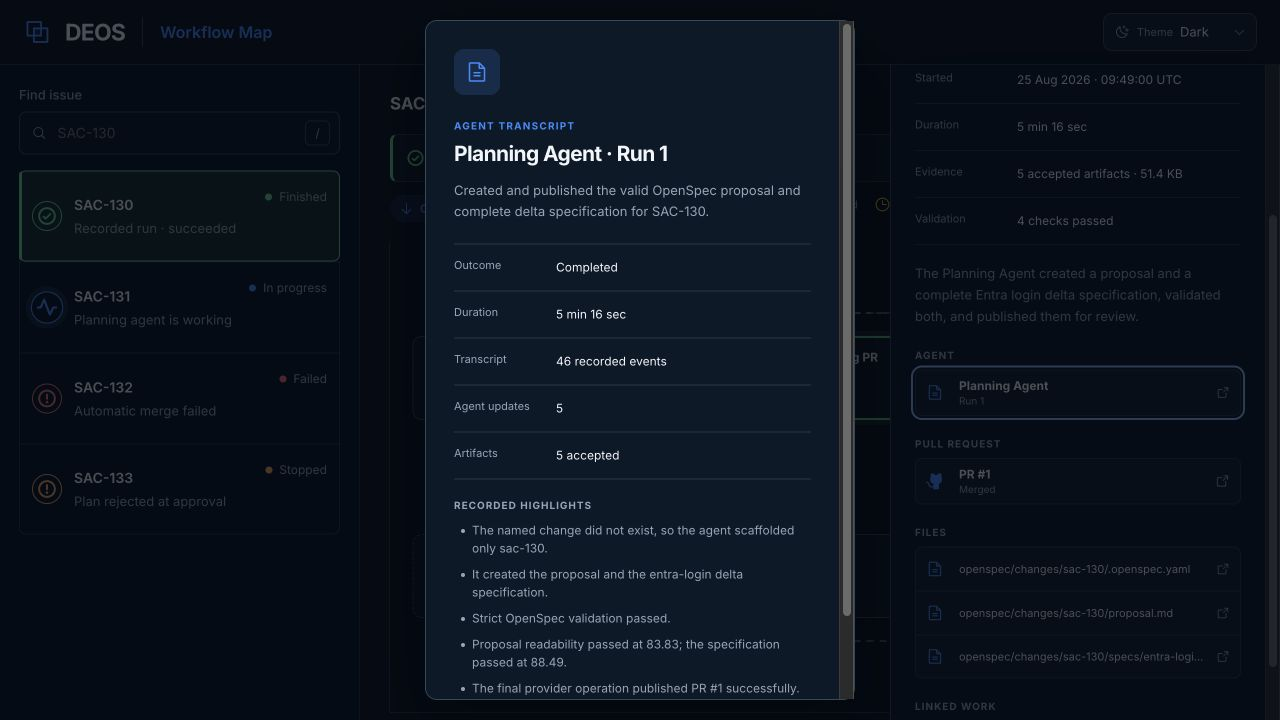
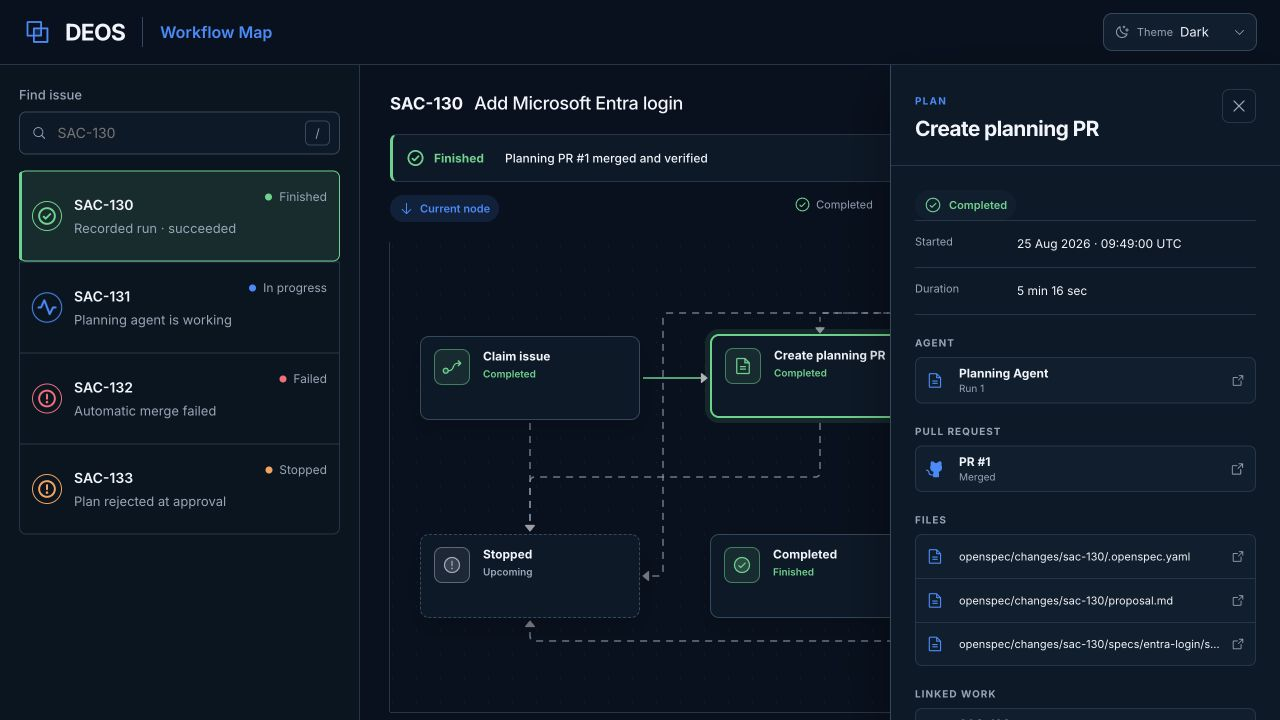
refactor(portal): simplify workflow details

diff --git a/portal/src/styles.css b/portal/src/styles.css
@@ -26,7 +26,7 @@ button { color:inherit; }
 .status-strip { min-height:45px;display:flex;justify-content:space-between;align-items:center;padding:8px 14px;margin-bottom:16px;border:1px solid var(--line);border-radius:10px;background:var(--panel);color:var(--muted);font-size:12px}.status-strip div{display:flex;align-items:center;gap:10px}.status-pill{padding:5px 9px;border-radius:999px;background:#e9f2ff;color:#1557a8;font-weight:700}.status-pill.awaiting_human,.status-pill.awaiting_capability{background:#fff1d8;color:#875209}.status-pill.succeeded{background:#ddf5e9;color:#166d46}.status-pill.failed,.status-pill.blocked,.status-pill.denied,.status-pill.canceled{background:#ffebe8;color:#9a3528}
 .workflow-panel,.detail-panel,.history-panel { border:1px solid var(--line);border-radius:14px;background:var(--panel);box-shadow:0 8px 24px rgba(20,45,68,.05); }.workflow-panel{padding:22px 24px;margin-bottom:18px}.section-heading{display:flex;align-items:flex-end;justify-content:space-between;gap:14px;margin-bottom:20px}.section-heading h2{font:700 18px ui-sans-serif,system-ui,sans-serif;margin:3px 0 0}.section-heading>span{font-size:12px;color:var(--muted)}
 .workflow-map { overflow-x:auto;padding:4px 2px 8px; }.stage-row{display:grid;grid-template-columns:repeat(5,minmax(154px,1fr));gap:24px;min-width:890px}.stage-row.reverse{direction:rtl}.stage-row.reverse>*{direction:ltr}.stage-slot{position:relative}.connector{position:absolute;right:-21px;top:35px;color:#8ea5b8;width:17px}.stage-card{position:relative;width:100%;min-height:76px;display:flex;align-items:center;gap:10px;padding:13px;text-align:left;border:1px solid var(--line);border-radius:11px;background:var(--soft);cursor:pointer}.stage-card:hover{border-color:#98b8d5}.stage-card.complete{background:var(--panel)}.stage-card.active{color:#fff;border-color:var(--blue);background:linear-gradient(135deg,#1669de,#24589e);box-shadow:0 7px 18px rgba(23,105,224,.22)}.stage-icon{width:27px;height:27px;display:grid;place-items:center;flex:0 0 auto;border-radius:50%;background:rgba(23,105,224,.1);color:var(--blue)}.active .stage-icon{background:rgba(255,255,255,.16);color:#fff}.stage-icon svg{width:15px}.stage-copy{display:flex;flex-direction:column;min-width:0}.stage-copy strong{font-size:13px;line-height:1.25}.stage-copy small{color:var(--muted);font-size:11px;margin-top:4px}.active .stage-copy small{color:#d8e7fa}.cycle{position:absolute;right:8px;top:8px;display:flex;align-items:center;gap:2px;font-size:10px;color:var(--amber)}.cycle svg{width:12px}.turn{min-width:890px;height:34px;display:flex;align-items:center;justify-content:flex-end;gap:7px;padding-right:72px;color:var(--muted);font-size:11px}.turn svg{width:18px}
-.lower-grid{display:grid;grid-template-columns:minmax(0,1.45fr) minmax(300px,.75fr);gap:18px}.detail-panel,.history-panel{padding:21px 22px;min-height:300px}.detail-content dl{display:grid;grid-template-columns:repeat(3,1fr);gap:10px;margin:0 0 20px}.detail-content dl div{padding:11px 12px;border-radius:9px;background:var(--soft)}dt{font-size:10px;text-transform:uppercase;letter-spacing:.09em;color:var(--muted);font-weight:700}dd{margin:5px 0 0;font-size:13px;font-weight:600}.evidence-grid{display:grid;grid-template-columns:repeat(3,1fr);gap:10px}.evidence-grid>div{border:1px solid var(--line);border-radius:10px;padding:13px}.evidence-grid h3{font-size:11px;text-transform:uppercase;letter-spacing:.06em;margin:0 0 10px;color:var(--muted)}.evidence-grid p,.evidence-grid a{font-size:12px;margin:5px 0;color:var(--muted)}.evidence-grid a{display:flex;align-items:center;gap:5px;color:var(--blue);text-decoration:none}.evidence-grid svg{width:15px}.attempt-row+.attempt-row{margin-top:10px;padding-top:10px;border-top:1px solid var(--line)}.attempt-row p{margin:0 0 7px}.attempt-row button{border:0;background:transparent;color:var(--blue);padding:0;font-size:12px;font-weight:700;cursor:pointer}.attempt-row span{font-size:11px;color:var(--muted)}
+.lower-grid{display:grid;grid-template-columns:minmax(0,1.45fr) minmax(300px,.75fr);gap:18px}.detail-panel,.history-panel{padding:21px 22px;min-height:300px}.detail-content dl{display:grid;grid-template-columns:repeat(2,1fr);gap:10px;margin:0 0 20px}.detail-content dl div{padding:11px 12px;border-radius:9px;background:var(--soft)}dt{font-size:10px;text-transform:uppercase;letter-spacing:.09em;color:var(--muted);font-weight:700}dd{margin:5px 0 0;font-size:13px;font-weight:600}.evidence-grid{display:grid;grid-template-columns:repeat(2,1fr);gap:10px}.evidence-grid>div{border:1px solid var(--line);border-radius:10px;padding:13px}.evidence-grid h3{font-size:11px;text-transform:uppercase;letter-spacing:.06em;margin:0 0 10px;color:var(--muted)}.evidence-grid a{font-size:12px;margin:5px 0;display:flex;align-items:center;gap:5px;color:var(--blue);text-decoration:none}.evidence-grid svg{width:15px}.attempt-row+.attempt-row{margin-top:10px;padding-top:10px;border-top:1px solid var(--line)}.attempt-row button{border:0;background:transparent;color:var(--blue);padding:0;font-size:12px;font-weight:700;cursor:pointer}
 .history-list{list-style:none;padding:0;margin:0;max-height:360px;overflow:auto}.history-list li+li{border-top:1px solid var(--line)}.history-list button{width:100%;display:grid;grid-template-columns:30px 1fr auto;gap:9px;align-items:center;padding:11px 7px;border:0;background:transparent;text-align:left;cursor:pointer}.history-list button:hover,.history-list button.selected{background:var(--soft)}.history-number{width:24px;height:24px;display:grid;place-items:center;border-radius:50%;background:var(--soft);font-size:11px;color:var(--muted)}.history-list strong{display:block;font-size:12px;text-transform:capitalize}.history-list small{display:block;margin-top:3px;color:var(--muted);font-size:10px}.history-state{font-size:10px;color:var(--muted);text-transform:capitalize}
 .empty-state{min-height:65vh;display:flex;flex-direction:column;align-items:center;justify-content:center;text-align:center;color:var(--muted)}.empty-state>svg{width:34px;height:34px;color:var(--blue)}.empty-state h1{font:700 23px ui-sans-serif,system-ui,sans-serif;color:inherit;margin:14px 0 5px}.empty-state p{max-width:430px;line-height:1.5}.spin,.stage-card.active .stage-icon svg{animation:spin 2s linear infinite}.stage-card.active{animation:breathe 2.4s ease-in-out infinite}
 .route-action{margin-top:10px;border:0;border-radius:8px;background:var(--blue);color:#fff;padding:10px 14px;font-weight:700;cursor:pointer}

diff --git a/portal/src/main.tsx b/portal/src/main.tsx
@@ -109,6 +109,17 @@ const formatTime = (value: string | null): string => value === null
   ? "—"
   : new Intl.DateTimeFormat(undefined, { dateStyle: "medium", timeStyle: "short" }).format(new Date(value));
 
+const formatDuration = (startedAt: string, endedAt: string | null): string => {
+  if (endedAt === null) return "In progress";
+  const milliseconds = new Date(endedAt).valueOf() - new Date(startedAt).valueOf();
+  if (!Number.isFinite(milliseconds) || milliseconds < 0) return "—";
+  const seconds = Math.round(milliseconds / 1_000);
+  if (seconds < 60) return `${seconds} sec`;
+  const minutes = Math.floor(seconds / 60);
+  const remainingSeconds = seconds % 60;
+  return remainingSeconds === 0 ? `${minutes} min` : `${minutes} min ${remainingSeconds} sec`;
+};
+
 const human = (value: string): string => value.replaceAll("_", " ");
 
 function ThemeControl({ theme, setTheme }: { theme: Theme; setTheme: (theme: Theme) => void }) {
@@ -329,6 +340,7 @@ function App() {
 
   const projection = poll.applied;
   const detail = useMemo(() => projection?.history.find((visit) => visit.sequence === selectedVisit) ?? projection?.history.at(-1) ?? null, [projection, selectedVisit]);
+  const transcriptAttempts = detail?.attempts.filter((attempt) => attempt.transcriptAvailable) ?? [];
   const firstRow = projection?.stages.slice(0, 4) ?? [];
   const secondRow = [...(projection?.stages.slice(4) ?? [])].reverse();
 
@@ -371,8 +383,11 @@ function App() {
           <section className="detail-panel">
             <div className="section-heading"><div><span className="eyebrow">Visit detail</span><h2>{detail?.label ?? "No visit selected"}</h2></div>{detail && <span>Visit {detail.sequence}{detail.cycle > 1 ? ` · cycle ${detail.cycle}` : ""}</span>}</div>
             {detail && <div className="detail-content">
-              <dl><div><dt>State</dt><dd>{human(detail.state)}</dd></div><div><dt>Entered</dt><dd>{formatTime(detail.enteredAt)}</dd></div><div><dt>Finished</dt><dd>{formatTime(detail.leftAt)}</dd></div></dl>
-              <div className="evidence-grid"><div><h3>Agent attempts</h3>{detail.attempts.length ? detail.attempts.map((attempt) => <div className="attempt-row" key={attempt.id}><p>{human(attempt.state)}{attempt.outcome ? ` · ${human(attempt.outcome)}` : ""}</p>{attempt.transcriptAvailable ? <button type="button" onClick={() => setTranscriptAttempt(attempt.id)}>View transcript</button> : <span>Transcript unavailable</span>}</div>) : <p>Unavailable for this visit</p>}</div><div><h3>Wait state</h3>{detail.waits.length ? detail.waits.map((wait, index) => <p key={index}>{human(wait.state)} · {formatTime(wait.startedAt)}</p>) : <p>No durable wait</p>}</div><div><h3>Governed work</h3>{detail.links.length ? detail.links.map((link) => <a key={link.url} href={link.url} target="_blank" rel="noreferrer"><GitPullRequest />{link.label}</a>) : <p>Unavailable for this visit</p>}</div></div>
+              <dl><div><dt>Started</dt><dd>{formatTime(detail.enteredAt)}</dd></div><div><dt>Duration</dt><dd>{formatDuration(detail.enteredAt, detail.leftAt)}</dd></div></dl>
+              {(transcriptAttempts.length > 0 || detail.links.length > 0) && <div className="evidence-grid">
+                {transcriptAttempts.length > 0 && <div><h3>Transcript</h3>{transcriptAttempts.map((attempt) => <div className="attempt-row" key={attempt.id}><button type="button" onClick={() => setTranscriptAttempt(attempt.id)}>View transcript</button></div>)}</div>}
+                {detail.links.length > 0 && <div><h3>Links</h3>{detail.links.map((link) => <a key={link.url} href={link.url} target="_blank" rel="noreferrer"><GitPullRequest />{link.label}</a>)}</div>}
+              </div>}
             </div>}
           </section>
           <section className="history-panel">

diff --git a/prototypes/sac-123-workflow-view/src/App.jsx b/prototypes/sac-123-workflow-view/src/App.jsx
@@ -772,6 +772,7 @@ function StepInspector({ selection, issue, onClose, onTranscript }) {
   const usesPullRequest = ["planning", "review", "merge", "complete"].includes(step?.id);
   const pullRequest = issue.pullRequest;
   const prStatus = pullRequest?.status ?? (issue.state === "active" ? "Draft" : issue.state === "stopped" ? "Closed" : ["waiting", "failed"].includes(issue.state) ? "Open" : "Unknown");
+  const timingFacts = step?.facts?.filter((fact) => ["started", "duration"].includes(fact.label.toLowerCase())) ?? [];
   return (
     <aside className="step-inspector" aria-label="Workflow detail">
       <div className="inspector-header">
@@ -786,17 +787,9 @@ function StepInspector({ selection, issue, onClose, onTranscript }) {
             {["failed", "rejected", "stopped"].includes(status) ? <WarningCircle size={18} /> : status === "skipped" ? <X size={18} /> : isCurrent && issue.state === "waiting" ? <Clock size={18} /> : status === "completed" ? <CheckCircle size={18} /> : <FlowArrow size={18} />}
             {labelForStageStatus(status, issue, isCurrent)}
           </div>
-          <dl className="detail-list">
-            <div><dt>Result</dt><dd>{step?.result}</dd></div>
-            {step?.facts?.map((fact) => <div key={`${fact.label}-${fact.value}`}><dt>{fact.label}</dt><dd>{fact.value}</dd></div>)}
-          </dl>
-          {step?.summary && <p className="detail-summary">{step.summary}</p>}
-          {step?.cycleBased && step?.cycleCount > 0 && (
-            <section className="inspector-cycles" aria-label="Cycle count">
-              <strong>{step.cycleCount}</strong>
-              <span>{step.cycleCount === 1 ? "Cycle" : "Cycles"}</span>
-            </section>
-          )}
+          {timingFacts.length > 0 && <dl className="detail-list">
+            {timingFacts.map((fact) => <div key={`${fact.label}-${fact.value}`}><dt>{fact.label}</dt><dd>{fact.value}</dd></div>)}
+          </dl>}
           {step?.agentRuns?.length > 0 && <section className="inspector-agents">
             <h3>Agent</h3>
             {step.agentRuns.map((run) => (

diff --git a/prototypes/sac-123-workflow-view/src/sac-130-recorded-run.js b/prototypes/sac-123-workflow-view/src/sac-130-recorded-run.js
@@ -53,9 +53,9 @@ export const sac130RecordedRun = Object.freeze({
       result: "Plan approved in Linear",
       summary: "SAC-130 entered Human Review. A person approved it by moving the issue to Merging 46 seconds later.",
       facts: [
-        { label: "Entered", value: "25 Aug 2026 · 09:54:18 UTC" },
+        { label: "Started", value: "25 Aug 2026 · 09:54:18 UTC" },
         { label: "Decision", value: "Human Review → Merging" },
-        { label: "Wait", value: "46 sec" },
+        { label: "Duration", value: "46 sec" },
       ],
     },
     merge: {

diff --git a/prototypes/sac-123-workflow-view/design-qa.md b/prototypes/sac-123-workflow-view/design-qa.md
@@ -35,7 +35,8 @@
 - [x] Mark Completed as skipped when SAC-132 fails during automatic merge.
 - [x] Add a rejected-at-Human-approval issue that highlights the normally dotted Human approval to Stopped branch.
 - [x] Mark Automatic merge & check and Completed as skipped for the rejected issue.
-- [x] Replace SAC-130 placeholder copy with the recorded Add Microsoft Entra login run, PR #1, real files, timings, validations, transcript summary, and terminal facts.
+- [x] Replace SAC-130 placeholder copy with the recorded Add Microsoft Entra login run, PR #1, real files, timings, transcript, and terminal state.
+- [x] Keep every workflow-step inspector compact: status, Started, Duration, and useful destinations only. Do not repeat result, evidence, validation, or explanatory summary copy.
 - [x] Preserve the missing historical governed work-link row as an evidence gap; reconcile PR #1 from the accepted result, Linear attachment, and GitHub read-back.
 - [x] Enable the recorded SAC-130 Linear issue, PR #1, and immutable merged-file destinations; keep illustrative issues unlinked.
 - [x] Open Planning Agent Run 1 through the attempt-scoped portal route while retaining recorded highlights; never expose the storage key or dashboard URL.
@@ -66,7 +67,7 @@
 - Focused comparison: separate source and implementation originals were opened at full resolution. A cropped region was not needed because this pass changes graph content rather than typography, controls, or detailed component anatomy.
 - Primary interactions tested: open Planning detail; verify Planning Agent, `proposal.md`, `specs/.../spec.md`, and PR #59; open Stopped detail; verify the bounded cancellation/failure explanation; switch Light and Dark themes; close both inspectors.
 - Browser console: a fresh final tab reported no errors or warnings.
-- Recorded-run interactions tested: open Claim issue, Create planning PR, Human approval, Automatic merge & check, and Completed; verify the reconciled facts in each detail; open Planning Agent Run 1; verify the transcript outcome, counts, and recorded highlights.
+- Recorded-run interactions tested: open Claim issue, Create planning PR, Human approval, Automatic merge & check, and Completed; verify that each detail contains only available timing and useful destinations; open Planning Agent Run 1; verify the transcript outcome, counts, and recorded highlights.
 - External destinations tested in the rendered prototype: the SAC-130 link resolved to the signed-in Linear issue and showed `Add Microsoft Entra login`; PR #1 resolved to the merged `SAC-130: OpenSpec plan` pull request; and `proposal.md` resolved to the immutable merge-commit file URL.
[1 lines of base64/hex data omitted]
 - Transcript interaction state: Dark theme at a 1280 x 720 CSS viewport, device pixel ratio 2. The browser screenshot API produced normalized 1280 x 720 PNGs.
@@ -95,5 +96,6 @@
 - External-destination pass: replaced prototype-only destination modals with real new-tab links for SAC-130 and verified the exact Linear and GitHub URLs.
 - Durable-transcript pass: read back the accepted `transcript.jsonl`, matched its 46 JSONL records, 44,634 bytes, and recorded SHA-256, then replaced the broken storage-dashboard link with an attempt-scoped in-app reader without committing the raw transcript.
 - Transcript-reader pass: the first real-data render exposed structured agent progress envelopes as noisy JSON in Activity. The renderer now extracts each envelope's human summary while retaining the exact envelope under Record details and Raw JSONL. Post-fix evidence in `implementation-transcript-activity.png` shows readable agent updates and distinct command/file activity; `implementation-transcript-raw.png` shows the exact numbered JSONL.
+- Detail-simplification pass: removed result, evidence, validation, cycle, and explanatory summary sections from the shared workflow-step inspector. Recorded state remains visible on the map, while the inspector now contains only Started, Duration, and available transcript, PR, file, or Linear destinations.
 
 final result: passed

diff --git a/openspec/changes/show-deos-workflow-for-linear-issue/specs/workflow-operator-view/spec.md b/openspec/changes/show-deos-workflow-for-linear-issue/specs/workflow-operator-view/spec.md
@@ -131,7 +131,7 @@ The portal SHALL present the full safe graph as the approved concise two-row wor
 - **THEN** the portal marks the projection unavailable and does not omit the node or replace the run's graph with another version
 
 ### Requirement: Detailed history preserves every visit and agent run
-The portal SHALL read and display the complete D1-recorded ordering of workflow visits for the selected run, including repeated visits to the same node. Stage details SHALL show the visits and agent attempts that contributed to each displayed cycle in chronological order. Each agent attempt SHALL remain a distinct row with its safe agent label, cycle or visit context, confirmed outcome, timestamps, and a transcript action when one accepted durable transcript is recorded.
+The portal SHALL read and display the complete D1-recorded ordering of workflow visits for the selected run, including repeated visits to the same node. A selected stage detail SHALL stay compact: it SHALL show only the visit's started time and duration before its useful destinations. It SHALL NOT repeat a result, evidence count, validation count, or explanatory summary that is already evident from the workflow state or linked work. Each accepted agent transcript SHALL remain a distinct destination associated with its recorded attempt.
 
 #### Scenario: A review sends work backward
 - **WHEN** a transition returns from review to an earlier node
@@ -139,15 +139,15 @@ The portal SHALL read and display the complete D1-recorded ordering of workflow 
 
 #### Scenario: Several agents run in one cycle
 - **WHEN** two agents each run during the same displayed cycle
-- **THEN** the stage detail shows two distinct agent rows associated with that cycle
+- **THEN** the stage detail offers a distinct transcript destination for each attempt that has an accepted transcript
 
 #### Scenario: An agent is retried
 - **WHEN** more than one attempt is recorded for the same agent work in one visit
-- **THEN** every attempt appears separately in chronological order with its own confirmed outcome
+- **THEN** each accepted attempt transcript appears as a separate destination without adding result commentary
 
 #### Scenario: Attempt has no accepted transcript
 - **WHEN** an agent attempt is recorded but no complete manifest with one accepted `transcript.jsonl` artifact is recorded for it
-- **THEN** the attempt remains visible and its transcript action is explicitly unavailable
+- **THEN** the stage detail does not offer a transcript action for that attempt
 
 ### Requirement: Accepted attempt transcripts are readable inside the portal
 The portal SHALL expose an authenticated read route identified only by attempt ID. The backend SHALL resolve that attempt through the selected project and run, require its artifact manifest to be complete, select only the accepted `transcript.jsonl` artifact, and fetch that exact private object through the R2 binding. It SHALL reject caller-supplied object keys, artifacts owned by another run or project, incomplete manifests, unaccepted policy outcomes, unexpected media types, oversized transcripts, and objects whose byte size or SHA-256 does not match D1. The browser SHALL present the verified records as a readable chronological Activity view by default and SHALL offer a secondary Raw JSONL view plus copy and download actions.
@@ -177,7 +177,7 @@ Stage details SHALL expose the most useful safe work products for the selected r
 
 #### Scenario: Operator inspects a human gate
 - **WHEN** the selected visit requires human action
-- **THEN** the detail explains the required approval or rejection and provides the selected issue's Linear destination
+- **THEN** the detail provides the selected issue's Linear destination without repeating approval or rejection commentary already shown by the workflow state
 
 #### Scenario: Work product belongs to another run
 - **WHEN** a requested artifact, transcript, pull request, or issue destination is not durably associated with the selected run or issue

diff --git a/openspec/changes/show-deos-workflow-for-linear-issue/design.md b/openspec/changes/show-deos-workflow-for-linear-issue/design.md
@@ -409,6 +409,12 @@ unconfirmed with its observation time, and exposes Retry.
 The approved prototype supplies component anatomy, two-row graph layout,
 blue-charcoal tokens, System/Light/Dark themes, issue rail, detail panel, and
 active-state breathing treatment. Theme is the only durable browser preference.
+The selected-stage detail is deliberately sparse. After the visible state, it
+shows only Started and Duration, followed by recorded transcript, pull request,
+file, or Linear destinations. It does not render result, evidence, validation,
+or explanatory summary copy that duplicates the graph state or linked work.
+The read projection still retains the underlying records for history,
+authorization, polling, and future trace-system use.
 `prefers-reduced-motion: reduce` removes all breathing and transition animation
 while preserving outline, color, icon, and text treatments for active work.
 Recent issue keys may appear in navigation but are never background-polled.

diff --git a/openspec/changes/show-deos-workflow-for-linear-issue/tasks.md b/openspec/changes/show-deos-workflow-for-linear-issue/tasks.md
@@ -19,7 +19,7 @@
 
 ## 4. Operator Interface
 
-- [x] 4.1 Convert the approved SAC-123 two-row prototype into the production issue search, run selection, workflow map, detail, history, wait, attempt, and evidence views.
+- [x] 4.1 Convert the approved SAC-123 two-row prototype into the production issue search, run selection, workflow map, compact timing-and-destination detail, history, wait, attempt, and evidence views.
 - [x] 4.2 Implement visible-page polling, stale-request cancellation, confirmed-update staging, retry, freshness, and atomic apply behavior.
 - [x] 4.3 Preserve System, Light, and Dark themes, provider-neutral copy, responsive layout, accessible interaction, active breathing, and reduced-motion treatment.
 - [x] 4.4 Add a default Activity transcript view plus secondary numbered Raw JSONL, copy, and download actions to the approved attempt detail.
